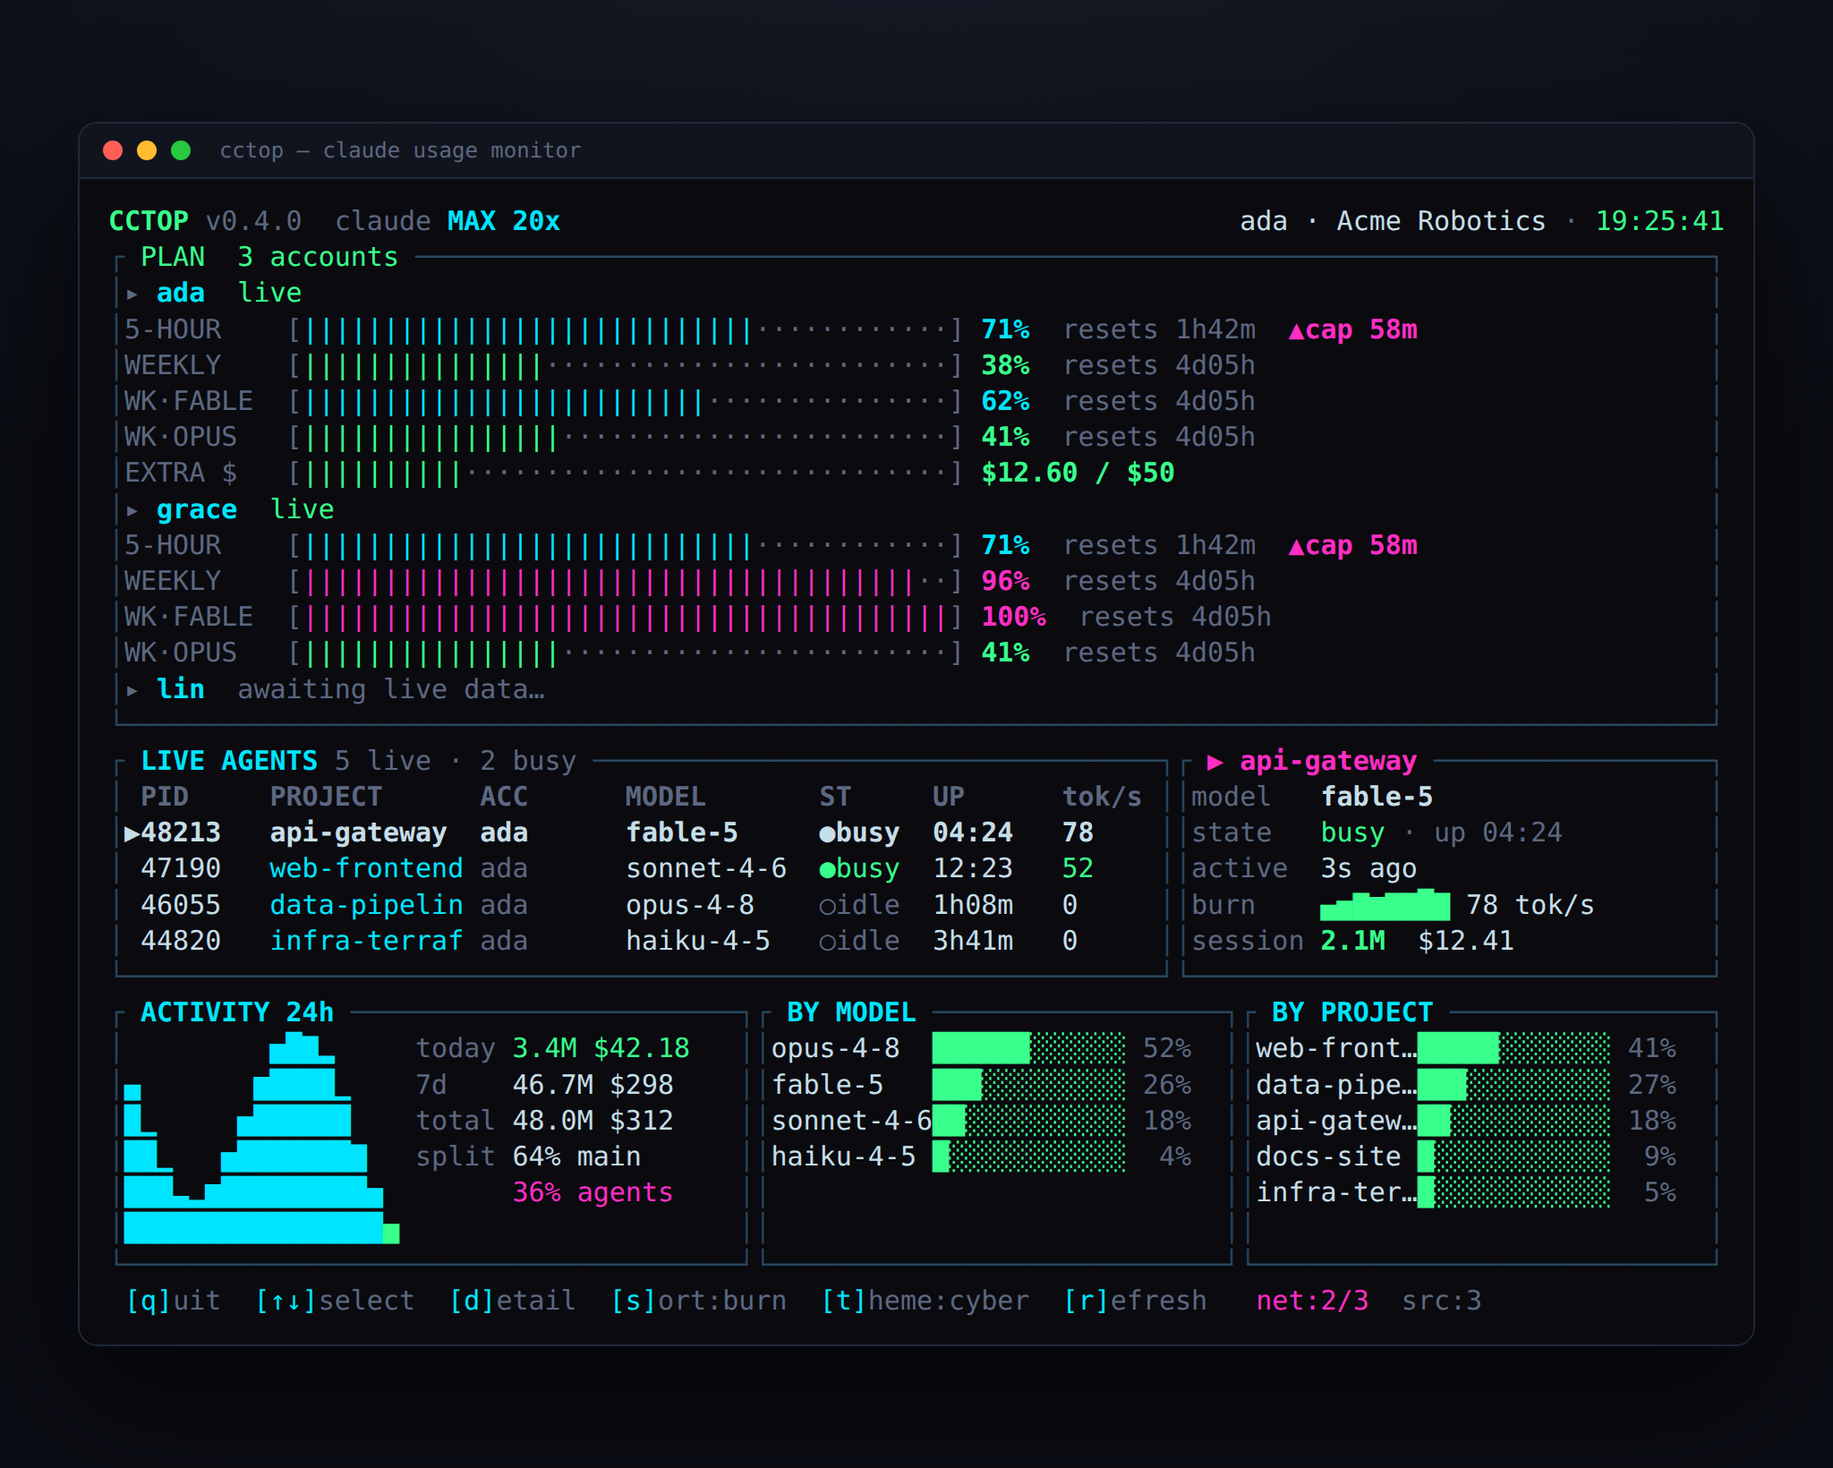
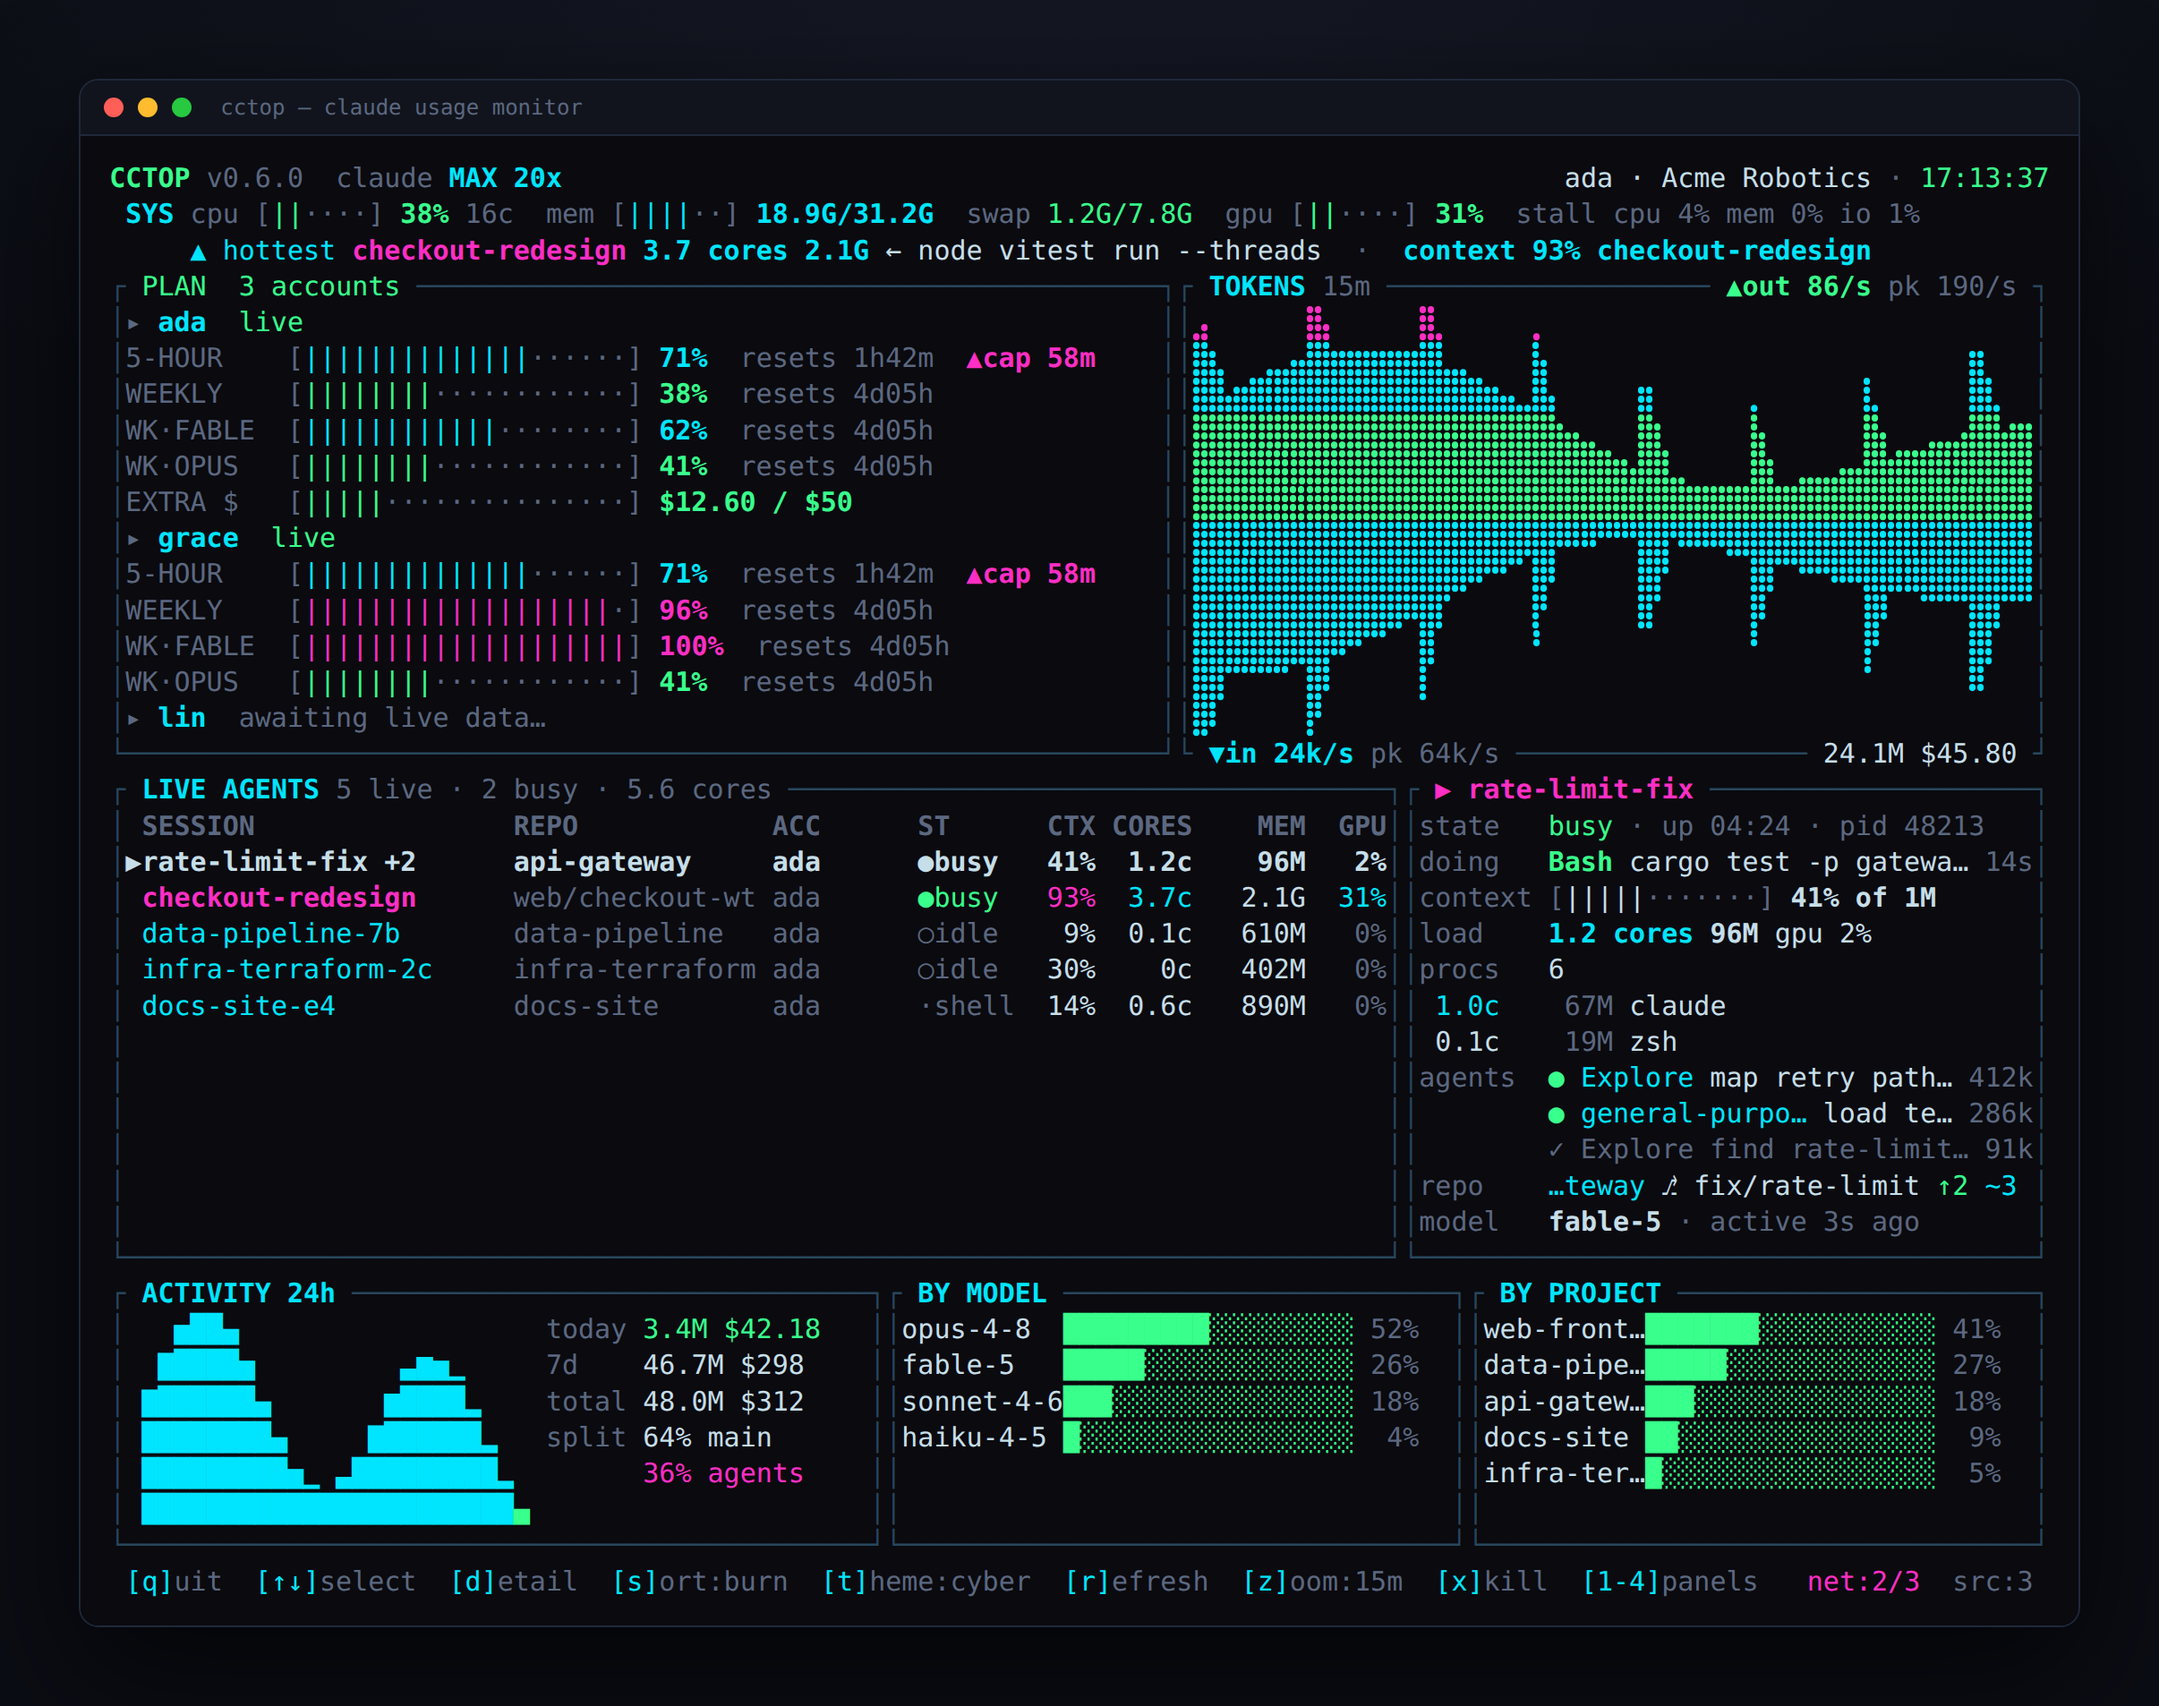
docs: refresh README screenshots for v0.6.0
The screenshots dated from v0.4.0. They now show the token graph, CTX
column, tool calls, subagent badge, the extended drill-down and the new
footer keys, across all six themes and the multi-account layout.

--snapshot renders at 120 columns (34 rows, 40 for multi-account) instead
of 100x29/33: at 100 the plan bars shrank to 9 cells and the tool-call text
and new key hints were hidden. In the HTML, braille cells are drawn as dot
grids, since browsers take braille from a proportional fallback font that
breaks column alignment, and any other fallback glyph wider than a cell is
squeezed back into it. Demo token bursts now spread over a few points
instead of one-column spikes.

Changed region(s): [[0.0312, 0.0311, 0.9688, 0.9329]]

diff --git a/src/snapshot.rs b/src/snapshot.rs
@@ -87,7 +87,41 @@ fn css_color(c: Color) -> Option<String> {
 }
 
 fn escape(s: &str) -> String {
-    s.replace('&', "&amp;").replace('<', "&lt;").replace('>', "&gt;")
+    let mut out = String::with_capacity(s.len());
+    for c in s.chars() {
+        match c {
+            '&' => out.push_str("&amp;"),
+            '<' => out.push_str("&lt;"),
+            '>' => out.push_str("&gt;"),
+            // Browser braille comes from a proportional fallback font with
+            // pinprick dots; draw the dots instead, the way a terminal does.
+            c @ '\u{2801}'..='\u{28ff}' => out.push_str(&braille_svg(c as u32 - 0x2800)),
+            // ⎇ and the like may fall back too; pin each such glyph to one
+            // cell so the columns line up. Box drawing and block elements are
+            // in every mono font, left bare.
+            c if !c.is_ascii() && !('\u{2500}'..='\u{259f}').contains(&c) => {
+                out.push_str("<i>");
+                out.push(c);
+                out.push_str("</i>");
+            }
+            c => out.push(c),
+        }
+    }
+    out
+}
+
+/// One braille cell as a 2×4 dot grid (dots 1-3/7 left column, 4-6/8 right).
+fn braille_svg(bits: u32) -> String {
+    const DOTS: [(u32, u8, u8); 8] =
+        [(0x01, 0, 0), (0x02, 0, 1), (0x04, 0, 2), (0x40, 0, 3), (0x08, 1, 0), (0x10, 1, 1), (0x20, 1, 2), (0x80, 1, 3)];
+    let mut svg = String::from(r#"<svg class="b" viewBox="0 0 2 4" preserveAspectRatio="none">"#);
+    for (bit, x, y) in DOTS {
+        if bits & bit != 0 {
+            svg.push_str(&format!(r#"<circle cx="{x}.5" cy="{y}.5" r=".4"/>"#));
+        }
+    }
+    svg.push_str("</svg>");
+    svg
 }
 
 fn wrap(pre: &str) -> String {
@@ -105,12 +139,24 @@ fn wrap(pre: &str) -> String {
   .t{{margin-left:8px;color:#5c6880;font-size:12px}}
   pre{{margin:0;padding:14px 16px;background:#0a0a0f;color:#c6dee8;
        font-size:15px;line-height:1.34;white-space:pre}}
+  pre i{{font-style:normal;display:inline-block;width:1ch;text-align:center}}
+  pre svg.b{{display:inline-block;width:1ch;height:1.34em;vertical-align:top;fill:currentColor}}
 </style></head><body><div class="win">
   <div class="bar"><span class="dot" style="background:#ff5f57"></span>
     <span class="dot" style="background:#febc2e"></span>
     <span class="dot" style="background:#28c840"></span>
     <span class="t">cctop — claude usage monitor</span></div>
   <pre>{pre}</pre>
-</div></body></html>"#
+</div><script>
+  // A fallback glyph wider than its cell (⎇ in DejaVu Sans) would spill into
+  // the next one; squeeze it back to the cell width instead.
+  for (const el of document.querySelectorAll('pre i')) {{
+    const g = document.createElement('span');
+    g.textContent = el.textContent;
+    el.replaceChildren(g);
+    const cell = el.getBoundingClientRect().width, w = g.getBoundingClientRect().width;
+    if (w > cell * 1.05) g.style.cssText = `display:inline-block;transform-origin:0 50%;transform:scaleX(${{cell / w}})`;
+  }}
+</script></body></html>"#
     )
 }

diff --git a/src/demo.rs b/src/demo.rs
@@ -160,8 +160,14 @@ pub fn series(tick: u64, points: usize, window: i64) -> Series {
     let wave = |i: usize, phase: f64| -> f64 {
         let t = (i as u64 + tick) as f64;
         let base = ((t * 0.07 + phase).sin() * 0.5 + 0.5) * ((t * 0.023 + phase).cos() * 0.3 + 0.7);
-        // Deterministic "turn finished" bursts.
-        let burst = if (i as u64 + tick).wrapping_mul(2_654_435_761).is_multiple_of(17) { 0.45 } else { 0.0 };
+        // Deterministic "turn finished" bursts, smeared over a few points the
+        // way the live series' trailing average smears them.
+        let hit = |k: u64| (k.wrapping_mul(2_654_435_761) >> 13).is_multiple_of(11);
+        let at = i as u64 + tick;
+        let burst = (0..3u64)
+            .filter(|&k| at >= k && hit(at - k))
+            .map(|k| 0.45 * (1.0 - k as f64 / 3.0))
+            .fold(0.0, f64::max);
         (base * 0.8 + burst).min(1.0)
     };
     let out: Vec<f64> = (0..n).map(|i| 30.0 + 160.0 * wave(i, 0.0)).collect();

diff --git a/src/main.rs b/src/main.rs
@@ -586,8 +586,10 @@ fn main() {
     };
 
     if let Some(path) = &args.snapshot {
-        let height = if args.snapshot_multi { 33 } else { 29 };
-        std::fs::write(path, snapshot::html(100, height, &theme::THEMES[theme_idx], args.snapshot_multi))
+        // 120 columns is the narrowest width with every footer hint and the
+        // table's tool-call text; the heights fit the drill-down and plans.
+        let height = if args.snapshot_multi { 40 } else { 34 };
+        std::fs::write(path, snapshot::html(120, height, &theme::THEMES[theme_idx], args.snapshot_multi))
             .expect("write snapshot html");
         return;
     }
